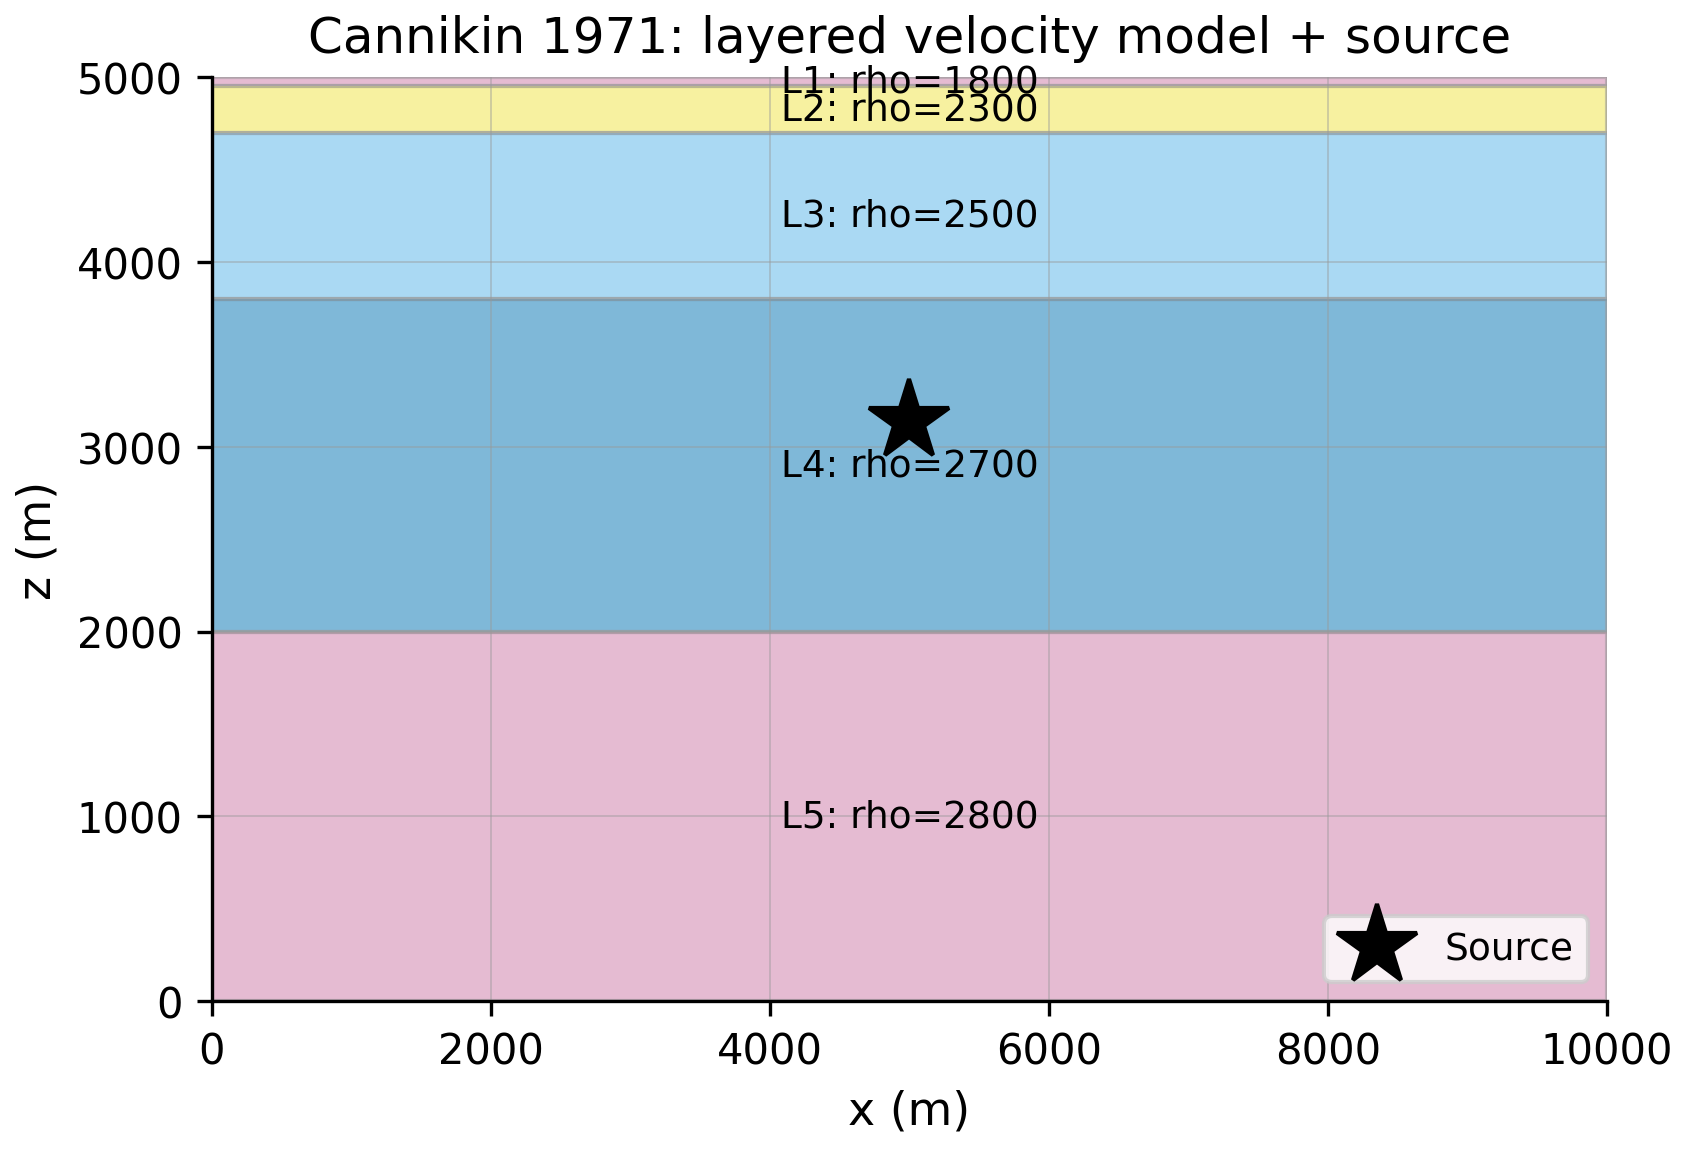
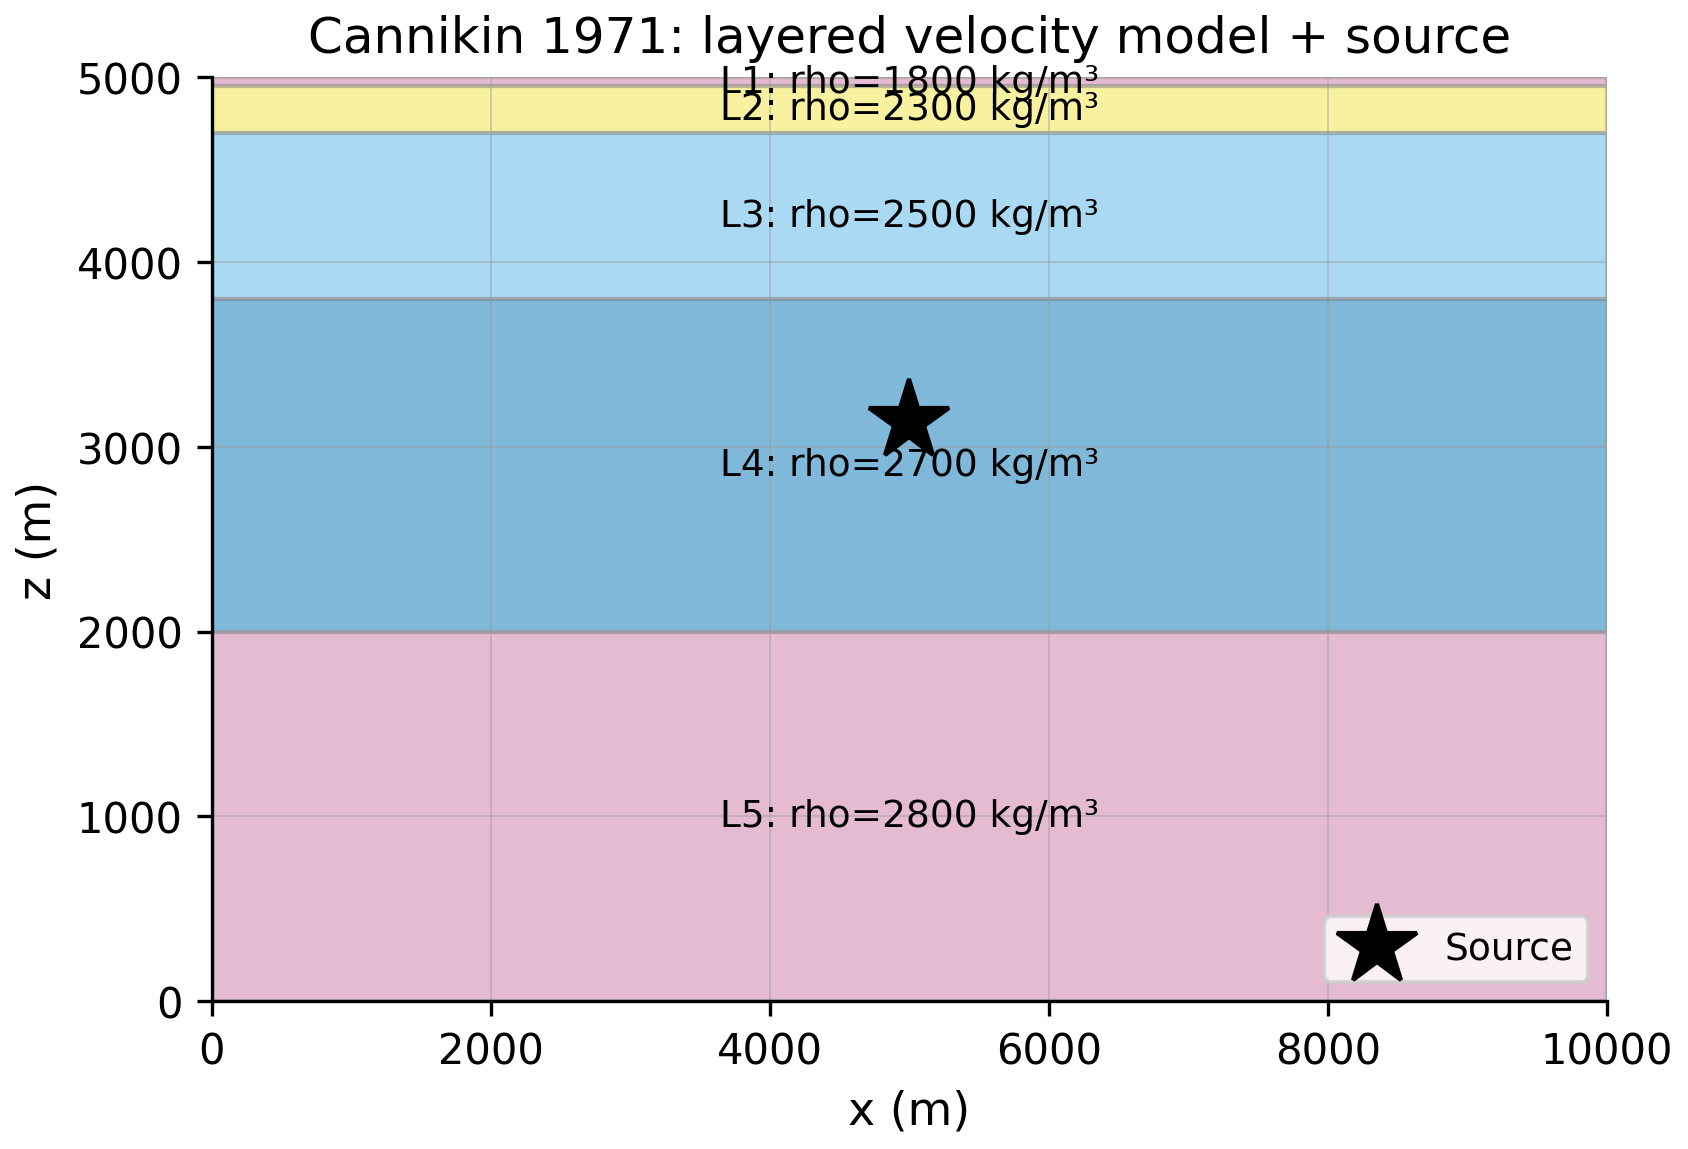
Updated ex 24

diff --git a/examples/24_cannikin_1971/figures/scripts/02_cavity_formation_radial_profile.py b/examples/24_cannikin_1971/figures/scripts/02_cavity_formation_radial_profile.py
@@ -29,10 +29,7 @@ def main():
         return 1
 
     with h5py.File(str(h5_path), "r") as f:
-        radius = f["radius_m"][:]
-        snap_keys = sorted(f["snapshots"].keys(),
-                           key=lambda s: int(s)
-                           if s.isdigit() else float("inf"))
+        snap_keys = sorted(f["profiles"].keys(), key=lambda s: int(s))
         n_snaps = len(snap_keys)
         if n_snaps < 4:
             print(f"WARN: only {n_snaps} snapshots in {h5_path}",
@@ -43,30 +40,42 @@ def main():
                  snap_keys[n_snaps // 3],
                  snap_keys[2 * n_snaps // 3],
                  snap_keys[-1]]
+        times = f["time"][:]
+
+        # Read cell-centre radii from first snapshot (constant grid)
+        r_cell = f[f"profiles/{picks[0]}/r_cell"][:]
 
         fig, axes = plt.subplots(1, 4, figsize=FIG_WIDE, sharex=True)
+        # Map (h5_field, use_node_r, label, log_scale)
         fields = [
-            ("velocity_m_per_s", "Velocity (m/s)"),
-            ("pressure_pa", "Pressure (Pa)"),
-            ("plastic_strain", "Plastic strain (--)"),
-            ("temperature_radiation_K", "T_rad (K)"),
+            ("v_r",    True,  "Velocity (m/s)",    False),
+            ("p",      False, "Pressure (Pa)",      True),
+            ("eps_p",  False, "Plastic strain (--)", False),
+            ("damage", False, "Damage (--)",         False),
         ]
 
-        for ax, (field, label) in zip(axes, fields):
+        for ax, (field, use_node, label, do_log) in zip(axes, fields):
             for k, snap_id in enumerate(picks):
-                grp = f[f"snapshots/{snap_id}"]
+                grp = f[f"profiles/{snap_id}"]
                 if field not in grp:
                     continue
-                data = grp[field][:]
-                t = grp.attrs.get("time_s", float("nan"))
+                raw = grp[field][:]
+                if use_node:
+                    # v_r lives on nodes (201 pts); average to cell centres
+                    data = 0.5 * (raw[:-1] + raw[1:])
+                    r = r_cell
+                else:
+                    data = raw
+                    r = r_cell
+                t_snap = times[int(snap_id)]
                 color_key = ["low_tier", "med_tier",
                              "high_tier", "highest_tier"][k]
-                ax.plot(radius, data, color=PALETTE[color_key],
-                        label=f"t = {t:.2e} s")
+                ax.plot(r, data, color=PALETTE[color_key],
+                        label=f"t = {t_snap:.2e} s")
             ax.set_xlabel("Radius (m)")
             ax.set_ylabel(label)
             ax.set_title(label)
-            if "pressure" in field or "temperature" in field:
+            if do_log:
                 ax.set_yscale("log")
         axes[0].legend(loc="upper right", fontsize=7)
 

diff --git a/examples/24_cannikin_1971/figures/scripts/03_moment_tensor_history.py b/examples/24_cannikin_1971/figures/scripts/03_moment_tensor_history.py
@@ -9,6 +9,7 @@ Visualization only.
 from __future__ import annotations
 
 import csv
+import io
 import sys
 from pathlib import Path
 
@@ -29,19 +30,24 @@ def main():
               file=sys.stderr)
         return 1
 
-    with open(csv_path, newline="") as f:
-        reader = csv.DictReader(f)
-        rows = list(reader)
-    if not rows:
+    with open(csv_path, newline="") as fh:
+        lines = [l for l in fh if not l.startswith("#")]
+    if not lines:
         print(f"WARN: {csv_path} empty", file=sys.stderr)
         return 1
+    reader = csv.DictReader(io.StringIO("".join(lines)))
+    rows = list(reader)
+    if not rows:
+        print(f"WARN: {csv_path} has no data rows", file=sys.stderr)
+        return 1
 
-    t = np.array([float(r["time_s"]) for r in rows])
+    t = np.array([float(r["t"]) for r in rows])
     components = ["xx", "yy", "zz", "xy", "xz", "yz"]
-    M = {c: np.array([float(r[f"M_{c}_Nm"]) for r in rows])
-         for c in components}
-    Mdot = {c: np.array([float(r[f"Mdot_{c}_Nms"]) for r in rows])
+    # CSV has moment-rate columns; integrate to get cumulative moment
+    Mdot = {c: np.array([float(r[f"M{c}_dot"]) for r in rows])
             for c in components}
+    dt = np.diff(t, prepend=t[0])
+    M = {c: np.cumsum(Mdot[c] * dt) for c in components}
 
     fig, (ax1, ax2) = plt.subplots(1, 2, figsize=FIG_WIDE)
     color_keys = ["synthetic", "observed", "analytic",
